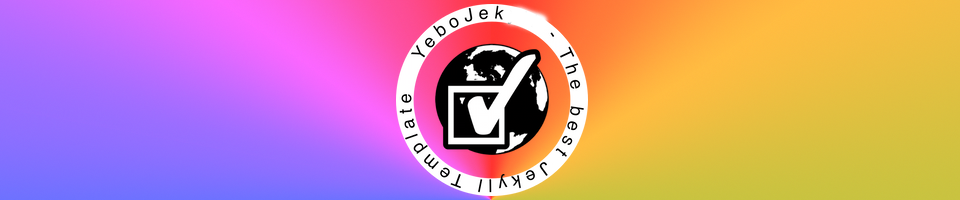
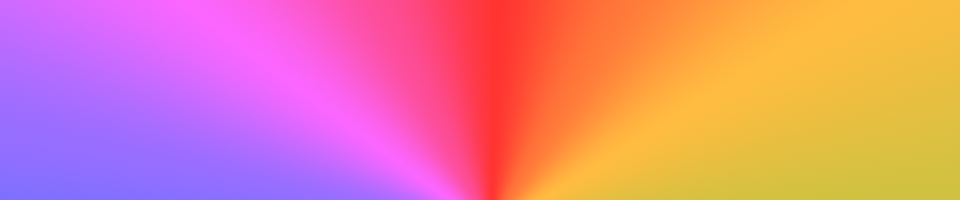
nav

Changed region(s): [[0.1875, 0.0, 0.6562, 1.0]]

diff --git a/_site/index.html b/_site/index.html
@@ -26,7 +26,7 @@
                </div> <!-- end of topbar-wrapper -->
                <div class="topbanner-wrapper">
                   <div class="topbanner-container">
-                     <img src="../../assets/yebojek/img/header-2.png" alt="header-2" width="960" height="200" />             <!-- Select Topbanner file here -->
+                     <img src="../../assets/yebojek/img/yebojek-logo-1.png" alt="yebojek-logo-1" style="position: relative; top: 0px; left: 400px; " />             <!-- Select Topbanner file here -->
                   </div> <!-- end of topbanner-container -->
                </div> <!-- end of topbanner-wrapper -->
             </div> <!-- end of section-top-container -->
@@ -52,14 +52,14 @@
             <a class="navbar-brand" href="/">Yebojek</a> 
         </div> <! -- end of navbar-header div -->
         <div class="navbar-collapse collapse" style="padding: 0;">
-            <ul class="nav nav-tabs">
-               <li class="dropdown navbar-right">
+            <ul class="nav nav-tabs" >
+               <li class="dropdown navbar-right" >
                         <a href="#" class="dropdown-toggle" data-toggle="dropdown"> Docs <b class="caret"></b></a>
                         <ul class="dropdown-menu">
                               <li><a href="/posts/standard-sizes">Standard Sizes</a> </li>
                       </ul>
                </li>
-               <li class="navbar-right"><a href="/posts">Posts</a> </li>
+               <li class="navbar-right" ><a href="/posts">Posts</a> </li>
                <li class="navbar-right"><a href="/posts/history">History</a></li>
                <li class="navbar-right"><a href="/posts/credits">Credits</a></li>
                <li class="navbar-right"><a href="/posts/box-model">Box Model</a></li>

diff --git a/_site/posts/box-model/index.html b/_site/posts/box-model/index.html
@@ -26,7 +26,7 @@
                </div> <!-- end of topbar-wrapper -->
                <div class="topbanner-wrapper">
                   <div class="topbanner-container">
-                     <img src="../../assets/yebojek/img/header-2.png" alt="header-2" width="960" height="200" />             <!-- Select Topbanner file here -->
+                     <img src="../../assets/yebojek/img/yebojek-logo-1.png" alt="yebojek-logo-1" style="position: relative; top: 0px; left: 400px; " />             <!-- Select Topbanner file here -->
                   </div> <!-- end of topbanner-container -->
                </div> <!-- end of topbanner-wrapper -->
             </div> <!-- end of section-top-container -->
@@ -52,14 +52,14 @@
             <a class="navbar-brand" href="/">Yebojek</a> 
         </div> <! -- end of navbar-header div -->
         <div class="navbar-collapse collapse" style="padding: 0;">
-            <ul class="nav nav-tabs">
-               <li class="dropdown navbar-right">
+            <ul class="nav nav-tabs" >
+               <li class="dropdown navbar-right" >
                         <a href="#" class="dropdown-toggle" data-toggle="dropdown"> Docs <b class="caret"></b></a>
                         <ul class="dropdown-menu">
                               <li><a href="/posts/standard-sizes">Standard Sizes</a> </li>
                       </ul>
                </li>
-               <li class="navbar-right"><a href="/posts">Posts</a> </li>
+               <li class="navbar-right" ><a href="/posts">Posts</a> </li>
                <li class="navbar-right"><a href="/posts/history">History</a></li>
                <li class="navbar-right"><a href="/posts/credits">Credits</a></li>
                <li class="navbar-right"><a href="/posts/box-model">Box Model</a></li>

diff --git a/_site/posts/credits/index.html b/_site/posts/credits/index.html
@@ -26,7 +26,7 @@
                </div> <!-- end of topbar-wrapper -->
                <div class="topbanner-wrapper">
                   <div class="topbanner-container">
-                     <img src="../../assets/yebojek/img/header-2.png" alt="header-2" width="960" height="200" />             <!-- Select Topbanner file here -->
+                     <img src="../../assets/yebojek/img/yebojek-logo-1.png" alt="yebojek-logo-1" style="position: relative; top: 0px; left: 400px; " />             <!-- Select Topbanner file here -->
                   </div> <!-- end of topbanner-container -->
                </div> <!-- end of topbanner-wrapper -->
             </div> <!-- end of section-top-container -->
@@ -52,14 +52,14 @@
             <a class="navbar-brand" href="/">Yebojek</a> 
         </div> <! -- end of navbar-header div -->
         <div class="navbar-collapse collapse" style="padding: 0;">
-            <ul class="nav nav-tabs">
-               <li class="dropdown navbar-right">
+            <ul class="nav nav-tabs" >
+               <li class="dropdown navbar-right" >
                         <a href="#" class="dropdown-toggle" data-toggle="dropdown"> Docs <b class="caret"></b></a>
                         <ul class="dropdown-menu">
                               <li><a href="/posts/standard-sizes">Standard Sizes</a> </li>
                       </ul>
                </li>
-               <li class="navbar-right"><a href="/posts">Posts</a> </li>
+               <li class="navbar-right" ><a href="/posts">Posts</a> </li>
                <li class="navbar-right"><a href="/posts/history">History</a></li>
                <li class="navbar-right"><a href="/posts/credits">Credits</a></li>
                <li class="navbar-right"><a href="/posts/box-model">Box Model</a></li>

diff --git a/_site/posts/history/index.html b/_site/posts/history/index.html
@@ -26,7 +26,7 @@
                </div> <!-- end of topbar-wrapper -->
                <div class="topbanner-wrapper">
                   <div class="topbanner-container">
-                     <img src="../../assets/yebojek/img/header-2.png" alt="header-2" width="960" height="200" />             <!-- Select Topbanner file here -->
+                     <img src="../../assets/yebojek/img/yebojek-logo-1.png" alt="yebojek-logo-1" style="position: relative; top: 0px; left: 400px; " />             <!-- Select Topbanner file here -->
                   </div> <!-- end of topbanner-container -->
                </div> <!-- end of topbanner-wrapper -->
             </div> <!-- end of section-top-container -->
@@ -52,14 +52,14 @@
             <a class="navbar-brand" href="/">Yebojek</a> 
         </div> <! -- end of navbar-header div -->
         <div class="navbar-collapse collapse" style="padding: 0;">
-            <ul class="nav nav-tabs">
-               <li class="dropdown navbar-right">
+            <ul class="nav nav-tabs" >
+               <li class="dropdown navbar-right" >
                         <a href="#" class="dropdown-toggle" data-toggle="dropdown"> Docs <b class="caret"></b></a>
                         <ul class="dropdown-menu">
                               <li><a href="/posts/standard-sizes">Standard Sizes</a> </li>
                       </ul>
                </li>
-               <li class="navbar-right"><a href="/posts">Posts</a> </li>
+               <li class="navbar-right" ><a href="/posts">Posts</a> </li>
                <li class="navbar-right"><a href="/posts/history">History</a></li>
                <li class="navbar-right"><a href="/posts/credits">Credits</a></li>
                <li class="navbar-right"><a href="/posts/box-model">Box Model</a></li>

diff --git a/_site/posts/index.html b/_site/posts/index.html
@@ -26,7 +26,7 @@
                </div> <!-- end of topbar-wrapper -->
                <div class="topbanner-wrapper">
                   <div class="topbanner-container">
-                     <img src="../../assets/yebojek/img/header-2.png" alt="header-2" width="960" height="200" />             <!-- Select Topbanner file here -->
+                     <img src="../../assets/yebojek/img/yebojek-logo-1.png" alt="yebojek-logo-1" style="position: relative; top: 0px; left: 400px; " />             <!-- Select Topbanner file here -->
                   </div> <!-- end of topbanner-container -->
                </div> <!-- end of topbanner-wrapper -->
             </div> <!-- end of section-top-container -->
@@ -52,14 +52,14 @@
             <a class="navbar-brand" href="/">Yebojek</a> 
         </div> <! -- end of navbar-header div -->
         <div class="navbar-collapse collapse" style="padding: 0;">
-            <ul class="nav nav-tabs">
-               <li class="dropdown navbar-right">
+            <ul class="nav nav-tabs" >
+               <li class="dropdown navbar-right" >
                         <a href="#" class="dropdown-toggle" data-toggle="dropdown"> Docs <b class="caret"></b></a>
                         <ul class="dropdown-menu">
                               <li><a href="/posts/standard-sizes">Standard Sizes</a> </li>
                       </ul>
                </li>
-               <li class="navbar-right"><a href="/posts">Posts</a> </li>
+               <li class="navbar-right" ><a href="/posts">Posts</a> </li>
                <li class="navbar-right"><a href="/posts/history">History</a></li>
                <li class="navbar-right"><a href="/posts/credits">Credits</a></li>
                <li class="navbar-right"><a href="/posts/box-model">Box Model</a></li>

diff --git a/_site/posts/standard-sizes/index.html b/_site/posts/standard-sizes/index.html
@@ -26,7 +26,7 @@
                </div> <!-- end of topbar-wrapper -->
                <div class="topbanner-wrapper">
                   <div class="topbanner-container">
-                     <img src="../../assets/yebojek/img/header-2.png" alt="header-2" width="960" height="200" />             <!-- Select Topbanner file here -->
+                     <img src="../../assets/yebojek/img/yebojek-logo-1.png" alt="yebojek-logo-1" style="position: relative; top: 0px; left: 400px; " />             <!-- Select Topbanner file here -->
                   </div> <!-- end of topbanner-container -->
                </div> <!-- end of topbanner-wrapper -->
             </div> <!-- end of section-top-container -->
@@ -52,14 +52,14 @@
             <a class="navbar-brand" href="/">Yebojek</a> 
         </div> <! -- end of navbar-header div -->
         <div class="navbar-collapse collapse" style="padding: 0;">
-            <ul class="nav nav-tabs">
-               <li class="dropdown navbar-right">
+            <ul class="nav nav-tabs" >
+               <li class="dropdown navbar-right" >
                         <a href="#" class="dropdown-toggle" data-toggle="dropdown"> Docs <b class="caret"></b></a>
                         <ul class="dropdown-menu">
                               <li><a href="/posts/standard-sizes">Standard Sizes</a> </li>
                       </ul>
                </li>
-               <li class="navbar-right"><a href="/posts">Posts</a> </li>
+               <li class="navbar-right" ><a href="/posts">Posts</a> </li>
                <li class="navbar-right"><a href="/posts/history">History</a></li>
                <li class="navbar-right"><a href="/posts/credits">Credits</a></li>
                <li class="navbar-right"><a href="/posts/box-model">Box Model</a></li>

diff --git a/_includes/areas/nav.html b/_includes/areas/nav.html
@@ -9,14 +9,14 @@
             <a class="navbar-brand" href="/">Yebojek</a> 
         </div> <! -- end of navbar-header div -->
         <div class="navbar-collapse collapse" style="padding: 0;">
-            <ul class="nav nav-tabs">
-               <li class="dropdown navbar-right">
+            <ul class="nav nav-tabs" >
+               <li class="dropdown navbar-right" >
                         <a href="#" class="dropdown-toggle" data-toggle="dropdown"> Docs <b class="caret"></b></a>
                         <ul class="dropdown-menu">
                               <li><a href="/posts/standard-sizes">Standard Sizes</a> </li>
                       </ul>
                </li>
-               <li class="navbar-right"><a href="/posts">Posts</a> </li>
+               <li class="navbar-right" ><a href="/posts">Posts</a> </li>
                <li class="navbar-right"><a href="/posts/history">History</a></li>
                <li class="navbar-right"><a href="/posts/credits">Credits</a></li>
                <li class="navbar-right"><a href="/posts/box-model">Box Model</a></li>

diff --git a/_site/assets/custom/myyebojek.css b/_site/assets/custom/myyebojek.css
@@ -130,6 +130,9 @@ a:focus {
 }
 
 .topbanner-container {
+   background: url("/assets/yebojek/img/header-2.png");
+
+
 }
 
 /* ------------------------------------------------------------------------------- */
@@ -162,7 +165,9 @@ a:focus {
 }
 
 .nav-container {
-   background: #7073fe;
+   background: grey;
+   margin-left: 10px;
+   margin-right: 10px;
 }
 
 

diff --git a/assets/custom/myyebojek.css b/assets/custom/myyebojek.css
@@ -130,6 +130,9 @@ a:focus {
 }
 
 .topbanner-container {
+   background: url("/assets/yebojek/img/header-2.png");
+
+
 }
 
 /* ------------------------------------------------------------------------------- */
@@ -162,7 +165,9 @@ a:focus {
 }
 
 .nav-container {
-   background: #7073fe;
+   background: grey;
+   margin-left: 10px;
+   margin-right: 10px;
 }
 
 

diff --git a/_includes/areas/topbanner.html b/_includes/areas/topbanner.html
@@ -1,1 +1,1 @@
-<img src="../../assets/yebojek/img/header-2.png" alt="header-2" width="960" height="200" />
+<img src="../../assets/yebojek/img/yebojek-logo-1.png" alt="yebojek-logo-1" style="position: relative; top: 0px; left: 400px; " />
